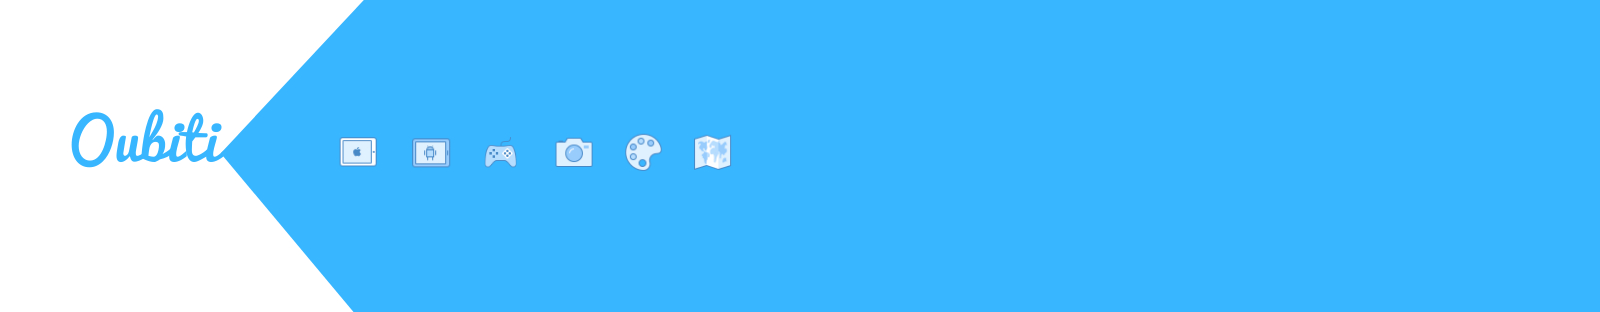
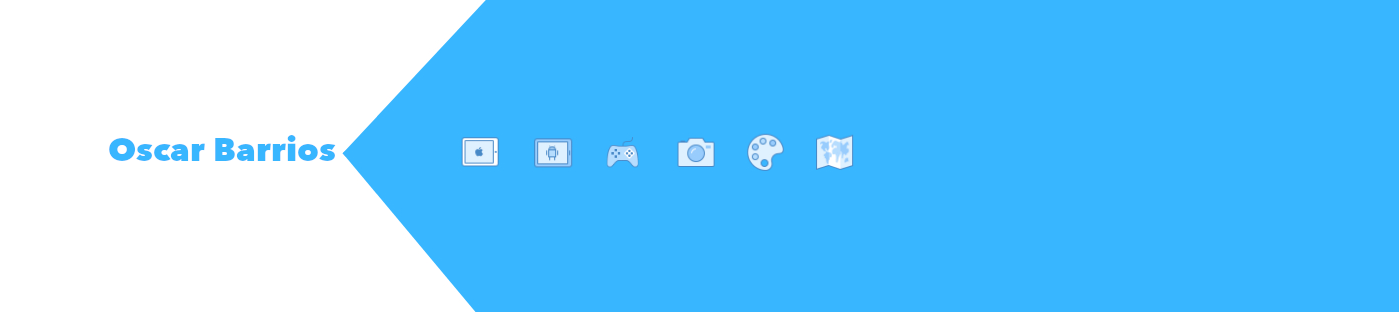
Rename Oubiti to Oscar Barrios

Changed region(s): [[0.0307, 0.0, 0.6147, 1.0]]

diff --git a/_posts/2019-02-27-a-good-methodology-for-a-development-team.md b/_posts/2019-02-27-a-good-methodology-for-a-development-team.md
@@ -1,7 +1,7 @@
 ---
 title: BDD in a development team
 date: 2019-02-27T15:27:56+00:00
-author: Oubiti
+author: Oscar Barrios
 layout: post
 comments: true
 desc: BDD in a development team
@@ -20,7 +20,7 @@ New slides:
 <script src="https://cdnjs.cloudflare.com/ajax/libs/pdfobject/2.2.5/pdfobject.min.js"></script>
 <script>
 var options = {
-	fallbackLink: "<iframe src='https://docs.google.com/viewer?url=http://oubiti.com/static/assets/img/blog/BDD.pdf&embedded=true' style='width:100%; height:800px;' frameborder='0'></iframe><br><p><a href='[url]'>Download PDF</a></p>",
+	fallbackLink: "<iframe src='https://docs.google.com/viewer?url=https://oscarbarrios.tech/static/assets/img/blog/BDD.pdf&embedded=true' style='width:100%; height:800px;' frameborder='0'></iframe><br><p><a href='[url]'>Download PDF</a></p>",
     height: "800px",
     pdfOpenParams: { view: 'FitH', page: '1' }
 };
@@ -32,7 +32,7 @@ SUSE Manager slides:
 <script src="https://cdnjs.cloudflare.com/ajax/libs/pdfobject/2.2.5/pdfobject.min.js"></script>
 <script>
 var options = {
-  fallbackLink: "<iframe src='https://docs.google.com/viewer?url=http://oubiti.com/static/assets/img/blog/BDD_SUSE_Manager.pdf&embedded=true' style='width:100%; height:800px;' frameborder='0'></iframe><br><p><a href='[url]'>Download PDF</a></p>",
+  fallbackLink: "<iframe src='https://docs.google.com/viewer?url=https://oscarbarrios.tech/static/assets/img/blog/BDD_SUSE_Manager.pdf&embedded=true' style='width:100%; height:800px;' frameborder='0'></iframe><br><p><a href='[url]'>Download PDF</a></p>",
     height: "800px",
     pdfOpenParams: { view: 'FitH', page: '1' }
 };

diff --git a/_posts/2025-06-10-opensusecon-2025.md b/_posts/2025-06-10-opensusecon-2025.md
@@ -1,7 +1,7 @@
 ---
 title: openSUSE 2025 talk
 date: 2025-06-10T12:00:00+00:00
-author: Oubiti
+author: Oscar Barrios
 layout: post
 comments: true
 desc: Quality on Autopilot. Scaling Testing in Uyuni
@@ -55,6 +55,6 @@ Also, as soon as the organizers upload the videos to YouTube, I will embed the f
 
 ### My presentation
 
-<iframe src="https://view.officeapps.live.com/op/embed.aspx?src=http://oubiti.com/static/assets/img/blog/Quality_on_Autopilot_Scaling_Testing_in_Uyuni.pptx" width="100%" height="800px" frameborder="0"></iframe>
+<iframe src="https://view.officeapps.live.com/op/embed.aspx?src=https://oscarbarrios.tech/static/assets/img/blog/Quality_on_Autopilot_Scaling_Testing_in_Uyuni.pptx" width="100%" height="800px" frameborder="0"></iframe>
 
 <iframe width="100%" height="800px" src="https://www.youtube.com/embed/zDV_B4qN0z8?si=-kUMqUi2vMlsbFfB" title="YouTube video player" frameborder="0" allow="accelerometer; autoplay; clipboard-write; encrypted-media; gyroscope; picture-in-picture; web-share" referrerpolicy="strict-origin-when-cross-origin" allowfullscreen></iframe>

diff --git a/_posts/2020-11-12-quality-engineering.md b/_posts/2020-11-12-quality-engineering.md
@@ -1,7 +1,7 @@
 ---
 title: From Quality Control to Quality Engineering
 date: 2020-11-12T10:00:56+00:00
-author: Oubiti
+author: Oscar Barrios
 layout: post
 comments: true
 desc: Quality Control, Quality Assurance and Quality Engineering
@@ -21,7 +21,7 @@ I think this is a very interesting talk for the teams, including the QA team its
 <script src="https://cdnjs.cloudflare.com/ajax/libs/pdfobject/2.2.5/pdfobject.min.js"></script>
 <script>
 var options = {
-	fallbackLink: "<iframe src='https://docs.google.com/viewer?url=http://oubiti.com/static/assets/img/blog/quality_models.pdf&embedded=true' style='width:100%; height:800px;' frameborder='0'></iframe><br><p><a href='[url]'>Download PDF</a></p>",
+	fallbackLink: "<iframe src='https://docs.google.com/viewer?url=https://oscarbarrios.tech/static/assets/img/blog/quality_models.pdf&embedded=true' style='width:100%; height:800px;' frameborder='0'></iframe><br><p><a href='[url]'>Download PDF</a></p>",
     height: "800px",
     pdfOpenParams: { view: 'FitH', page: '1' }
 };

diff --git a/_posts/2020-12-20-smart-integration-tests.md b/_posts/2020-12-20-smart-integration-tests.md
@@ -1,7 +1,7 @@
 ---
 title: Smart integration tests
 date: 2020-12-20T10:00:56+00:00
-author: Oubiti
+author: Oscar Barrios
 layout: post
 comments: true
 desc: Using Cucumber profiles and Analizing code changes
@@ -28,7 +28,7 @@ Our next steps on that goal, it will be filter the resources we need to deploy t
 <script src="https://cdnjs.cloudflare.com/ajax/libs/pdfobject/2.2.5/pdfobject.min.js"></script>
 <script>
 var options = {
-	fallbackLink: "<iframe src='https://docs.google.com/viewer?url=http://oubiti.com/static/assets/img/blog/smart_integration_tests.pdf&embedded=true' style='width:100%; height:800px;' frameborder='0'></iframe><br><p><a href='[url]'>Download PDF</a></p>",
+	fallbackLink: "<iframe src='https://docs.google.com/viewer?url=https://oscarbarrios.tech/static/assets/img/blog/smart_integration_tests.pdf&embedded=true' style='width:100%; height:800px;' frameborder='0'></iframe><br><p><a href='[url]'>Download PDF</a></p>",
     height: "800px",
     pdfOpenParams: { view: 'FitH', page: '1' }
 };

diff --git a/_posts/2020-07-05-devops-introduction.md b/_posts/2020-07-05-devops-introduction.md
@@ -1,7 +1,7 @@
 ---
 title: DevOps Introduction
 date: 2020-07-05T16:00:56+00:00
-author: Oubiti
+author: Oscar Barrios
 layout: post
 comments: true
 desc: Introduction made as part of the first DevOps meetup in SUSE
@@ -19,7 +19,7 @@ To break the ice, I did the first presentation. I can't show you the recording b
 <script src="https://cdnjs.cloudflare.com/ajax/libs/pdfobject/2.2.5/pdfobject.min.js"></script>
 <script>
 var options = {
-	fallbackLink: "<iframe src='https://docs.google.com/viewer?url=http://oubiti.com/static/assets/img/blog/devops_introduction.pdf&embedded=true' style='width:100%; height:800px;' frameborder='0'></iframe><br><p><a href='[url]'>Download PDF</a></p>",
+	fallbackLink: "<iframe src='https://docs.google.com/viewer?url=https://oscarbarrios.tech/static/assets/img/blog/devops_introduction.pdf&embedded=true' style='width:100%; height:800px;' frameborder='0'></iframe><br><p><a href='[url]'>Download PDF</a></p>",
     height: "800px",
     pdfOpenParams: { view: 'FitH', page: '1' }
 };

diff --git a/_posts/2021-10-25-test-frameworks.md b/_posts/2021-10-25-test-frameworks.md
@@ -1,7 +1,7 @@
 ---
 title: Test Frameworks Workshop
 date: 2021-10-25T18:40:26+00:00
-author: Oubiti
+author: Oscar Barrios
 layout: post
 comments: true
 desc: Test Frameworks workshop
@@ -28,7 +28,7 @@ Also, it propose a playground to test a website using CucumberJVM + Selenium.
 <script src="https://cdnjs.cloudflare.com/ajax/libs/pdfobject/2.2.5/pdfobject.min.js"></script>
 <script>
 var options = {
-	fallbackLink: "<iframe src='https://docs.google.com/viewer?url=http://oubiti.com/static/assets/img/blog/test_frameworks.pdf&embedded=true' style='width:100%; height:800px;' frameborder='0'></iframe><br><p><a href='[url]'>Download PDF</a></p>",
+	fallbackLink: "<iframe src='https://docs.google.com/viewer?url=https://oscarbarrios.tech/static/assets/img/blog/test_frameworks.pdf&embedded=true' style='width:100%; height:800px;' frameborder='0'></iframe><br><p><a href='[url]'>Download PDF</a></p>",
     height: "800px",
     pdfOpenParams: { view: 'FitH', page: '1' }
 };

diff --git a/_posts/2021-10-05-code-coverage.md b/_posts/2021-10-05-code-coverage.md
@@ -1,7 +1,7 @@
 ---
 title: Code Coverage Workshop
 date: 2021-09-30T08:40:26+00:00
-author: Oubiti
+author: Oscar Barrios
 layout: post
 comments: true
 desc: Code Coverage
@@ -21,7 +21,7 @@ The course code is available from here [https://github.com/srbarrios/codecoverag
 <script src="https://cdnjs.cloudflare.com/ajax/libs/pdfobject/2.2.5/pdfobject.min.js"></script>
 <script>
 var options = {
-	fallbackLink: "<iframe src='https://docs.google.com/viewer?url=http://oubiti.com/static/assets/img/blog/code_coverage.pdf&embedded=true' style='width:100%; height:800px;' frameborder='0'></iframe><br><p><a href='[url]'>Download PDF</a></p>",
+	fallbackLink: "<iframe src='https://docs.google.com/viewer?url=https://oscarbarrios.tech/static/assets/img/blog/code_coverage.pdf&embedded=true' style='width:100%; height:800px;' frameborder='0'></iframe><br><p><a href='[url]'>Download PDF</a></p>",
     height: "800px",
     pdfOpenParams: { view: 'FitH', page: '1' }
 };

diff --git a/_posts/2021-09-30-junit5.md b/_posts/2021-09-30-junit5.md
@@ -1,7 +1,7 @@
 ---
 title: JUnit 5 Workshop
 date: 2021-09-30T08:40:26+00:00
-author: Oubiti
+author: Oscar Barrios
 layout: post
 comments: true
 desc: JUnit 5 workshop
@@ -21,7 +21,7 @@ The course code is available from here [https://github.com/srbarrios/junit5-tuto
 <script src="https://cdnjs.cloudflare.com/ajax/libs/pdfobject/2.2.5/pdfobject.min.js"></script>
 <script>
 var options = {
-	fallbackLink: "<iframe src='https://docs.google.com/viewer?url=http://oubiti.com/static/assets/img/blog/junit5.pdf&embedded=true' style='width:100%; height:800px;' frameborder='0'></iframe><br><p><a href='[url]'>Download PDF</a></p>",
+	fallbackLink: "<iframe src='https://docs.google.com/viewer?url=https://oscarbarrios.tech/static/assets/img/blog/junit5.pdf&embedded=true' style='width:100%; height:800px;' frameborder='0'></iframe><br><p><a href='[url]'>Download PDF</a></p>",
     height: "800px",
     pdfOpenParams: { view: 'FitH', page: '1' }
 };

diff --git a/_posts/2021-08-30-software-bugs.md b/_posts/2021-08-30-software-bugs.md
@@ -1,7 +1,7 @@
 ---
 title: Software bugs
 date: 2021-08-30T18:30:36+00:00
-author: Oubiti
+author: Oscar Barrios
 layout: post
 comments: true
 desc: Introduction to Software bugs
@@ -22,7 +22,7 @@ I hope it is useful for you!
 <script src="https://cdnjs.cloudflare.com/ajax/libs/pdfobject/2.2.5/pdfobject.min.js"></script>
 <script>
 var options = {
-	fallbackLink: "<iframe src='https://docs.google.com/viewer?url=http://oubiti.com/static/assets/img/blog/Bugs.pdf&embedded=true' style='width:100%; height:800px;' frameborder='0'></iframe><br><p><a href='[url]'>Download PDF</a></p>",
+	fallbackLink: "<iframe src='https://docs.google.com/viewer?url=https://oscarbarrios.tech/static/assets/img/blog/Bugs.pdf&embedded=true' style='width:100%; height:800px;' frameborder='0'></iframe><br><p><a href='[url]'>Download PDF</a></p>",
     height: "800px",
     pdfOpenParams: { view: 'FitH', page: '1' }
 };

diff --git a/_posts/2025-03-31-seleniumconf-2025.md b/_posts/2025-03-31-seleniumconf-2025.md
@@ -1,7 +1,7 @@
 ---
 title: SeleniumConf 2025 Experience
 date: 2025-03-31T12:00:00+00:00
-author: Oubiti
+author: Oscar Barrios
 layout: post
 comments: true
 desc: My experience at SeleniumConf 2025
@@ -74,5 +74,5 @@ In summary, I left the conference **highly motivated about test observability**,
 
 ### My presentation
 
-<iframe src="https://view.officeapps.live.com/op/embed.aspx?src=http://oubiti.com/static/assets/img/blog/SeleniumConf2025.pptx" width="100%" height="800px" frameborder="0"></iframe>
+<iframe src="https://view.officeapps.live.com/op/embed.aspx?src=https://oscarbarrios.tech/static/assets/img/blog/SeleniumConf2025.pptx" width="100%" height="800px" frameborder="0"></iframe>
 

diff --git a/_posts/2020-09-20-automated-maintenance-update-validation.md b/_posts/2020-09-20-automated-maintenance-update-validation.md
@@ -1,7 +1,7 @@
 ---
 title: 'SUSECon 2020 Talk: Automated QA for Maintenance Updates'
 date: 2020-09-20T19:07:00+00:00
-author: Oubiti
+author: Oscar Barrios
 layout: post
 comments: true
 desc: 'SUSECon 2020 Talk: Automated QA for Maintenance Updates'

diff --git a/_posts/2025-06-05-GSoC-2025.md b/_posts/2025-06-05-GSoC-2025.md
@@ -1,7 +1,7 @@
 ---
 title: Mentoring for GSoC 2025. AI-Driven Test Selection
 date: 2025-06-10T12:00:00+00:00
-author: Oubiti
+author: Oscar Barrios
 layout: post
 comments: true
 desc: Mentoring for GSoC 2025. AI-Driven Test Selection
